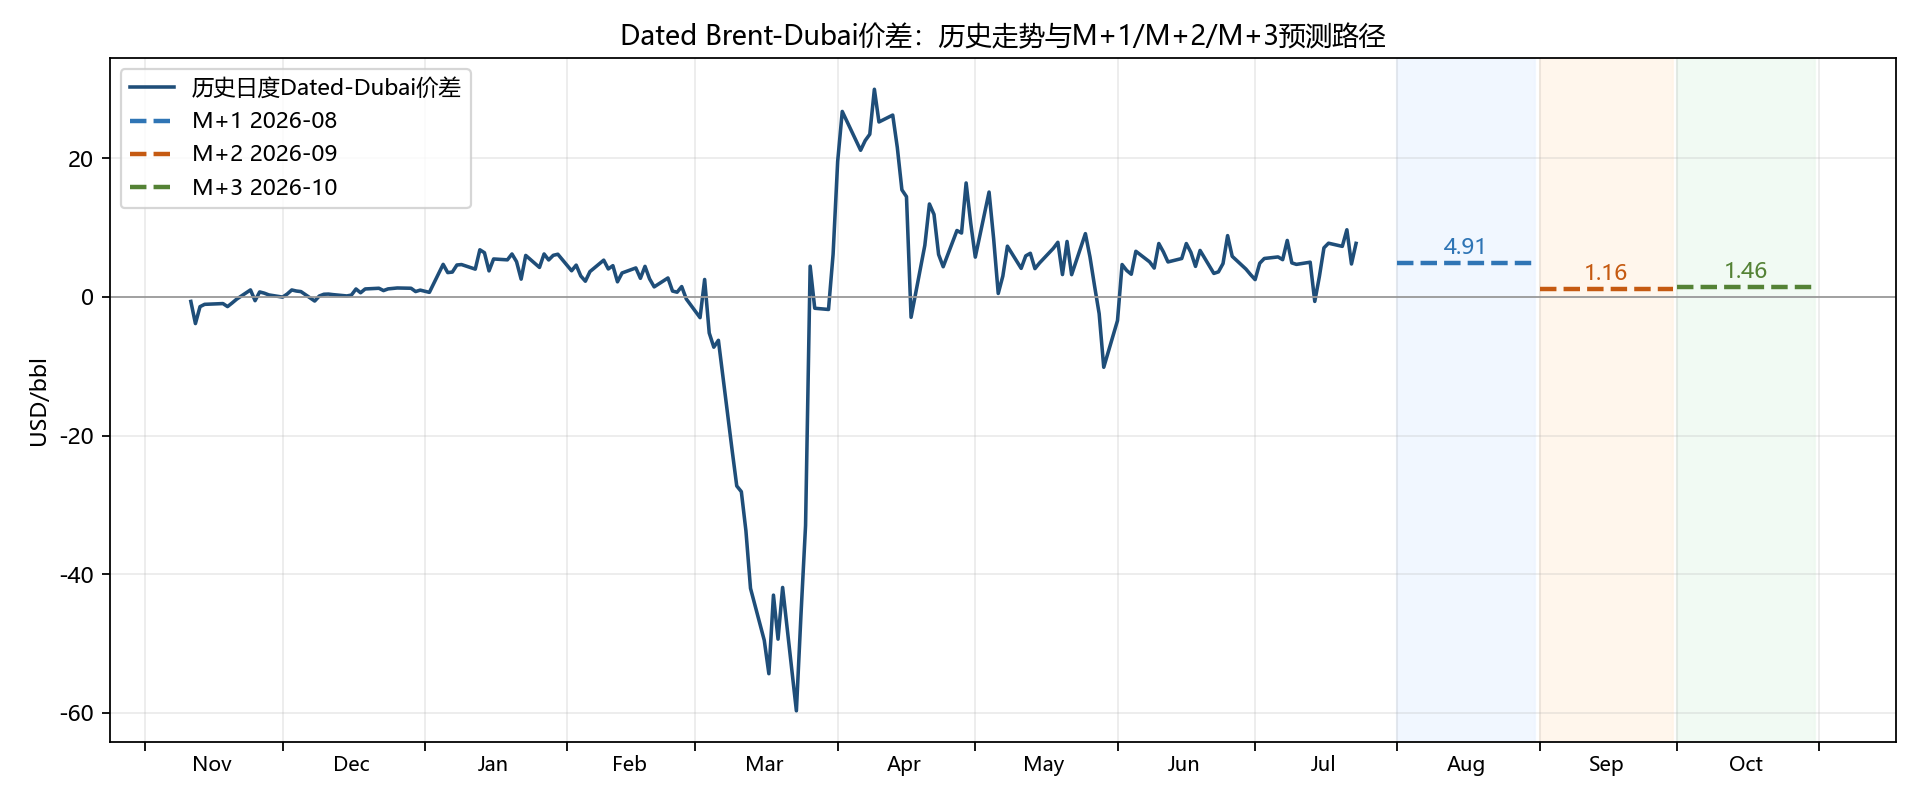
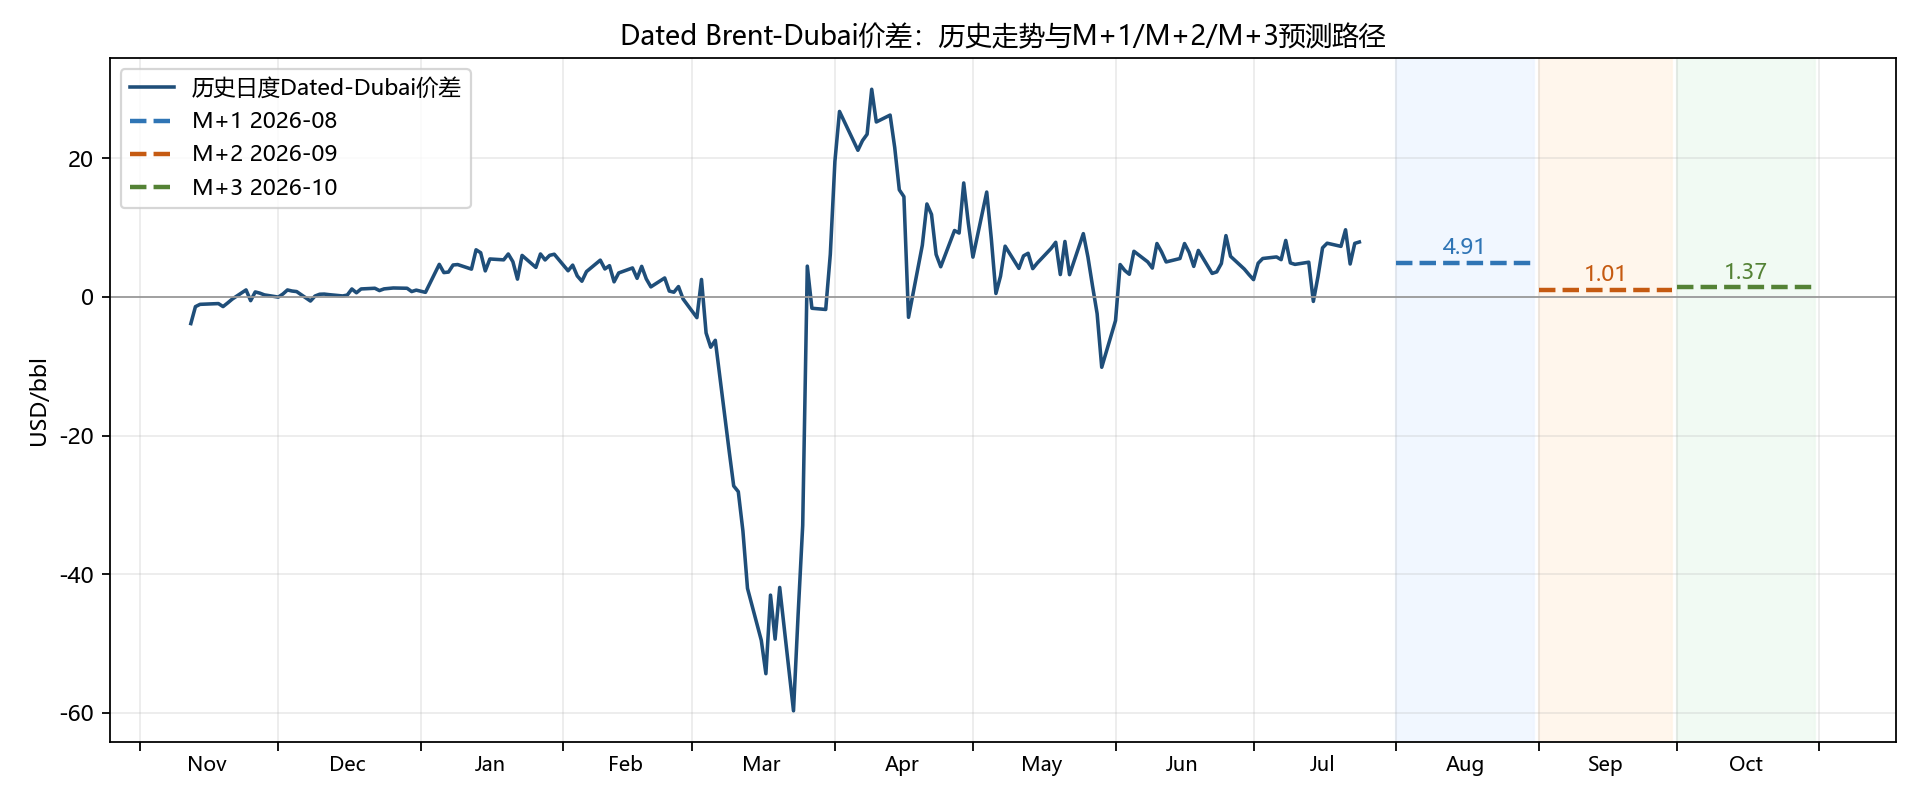
Update BD report 2026-07-27 09:41

diff --git a/index.html b/index.html
@@ -20,7 +20,7 @@ img{max-width:100%;border:1px solid #ddd}.note{color:#555}
 </head><body>
 <h1>Dated-Dubai价差中期预测模型报告</h1>
 <h2>1. 核心结论</h2>
-<div class='grid'><div class='kpi'>数据日期<b>2026-07-23</b></div><div class='kpi'>Dated Brent<b>104.920</b></div><div class='kpi'>Dubai<b>97.190</b></div><div class='kpi'>Dated-Dubai价差<b>7.730</b></div></div>
+<div class='grid'><div class='kpi'>数据日期<b>2026-07-24</b></div><div class='kpi'>Dated Brent<b>98.330</b></div><div class='kpi'>Dubai<b>90.400</b></div><div class='kpi'>Dated-Dubai价差<b>7.930</b></div></div>
 <table class="dataframe data-table">
   <thead>
     <tr style="text-align: right;">
@@ -40,7 +40,7 @@ img{max-width:100%;border:1px solid #ddd}.note{color:#555}
       <td>2026-08</td>
       <td>M+1</td>
       <td>4.9118</td>
-      <td>-2.8182</td>
+      <td>-3.0182</td>
       <td>下降</td>
       <td>ExtraTrees</td>
       <td>core</td>
@@ -50,8 +50,8 @@ img{max-width:100%;border:1px solid #ddd}.note{color:#555}
     <tr>
       <td>2026-09</td>
       <td>M+2</td>
-      <td>1.1553</td>
-      <td>-6.5747</td>
+      <td>1.0132</td>
+      <td>-6.9168</td>
       <td>下降</td>
       <td>ExtraTrees</td>
       <td>enhanced</td>
@@ -61,8 +61,8 @@ img{max-width:100%;border:1px solid #ddd}.note{color:#555}
     <tr>
       <td>2026-10</td>
       <td>M+3</td>
-      <td>1.4643</td>
-      <td>-6.2657</td>
+      <td>1.3708</td>
+      <td>-6.5592</td>
       <td>下降</td>
       <td>ExtraTrees</td>
       <td>enhanced</td>
@@ -72,10 +72,10 @@ img{max-width:100%;border:1px solid #ddd}.note{color:#555}
   </tbody>
 </table>
 <p>方向准确率为历史滚动回测结果。</p>
-<p>最新Dated-Dubai价差为 7.730 USD/bbl；未来预测方向为：M+1 2026-08 下降、M+2 2026-09 下降、M+3 2026-10 下降。</p>
+<p>最新Dated-Dubai价差为 7.930 USD/bbl；未来预测方向为：M+1 2026-08 下降、M+2 2026-09 下降、M+3 2026-10 下降。</p>
 <p>当前三个预测月份中，M+1 使用 ExtraTrees + core，M+2 使用 ExtraTrees + enhanced，M+3 使用 ExtraTrees + enhanced。</p>
 <h2>2. 价差走势与中期预测</h2>
-<img src='bd_m1_m3_monthly_forecast_chart.png?v=20260724103004' alt='M1-M3月均预测图'>
+<img src='bd_m1_m3_monthly_forecast_chart.png?v=20260727094128' alt='M1-M3月均预测图'>
 <p class='note'>实线为最近历史日度Dated-Dubai价差；水平虚线分别表示M+1/M+2/M+3完整自然月平均Dated-Dubai价差预测。价差上升表示Dated Brent相对Dubai走强；价差下降表示Dubai相对Dated Brent走强。</p>
 <h2>3. 回测表现摘要</h2>
 <table class="dataframe data-table">
@@ -299,7 +299,7 @@ img{max-width:100%;border:1px solid #ddd}.note{color:#555}
       <td>1</td>
       <td>核心海湾产量</td>
       <td>中东供应</td>
-      <td>0.098662</td>
+      <td>0.081218</td>
       <td>反映核心海湾原油产量变化</td>
     </tr>
     <tr>
@@ -307,7 +307,7 @@ img{max-width:100%;border:1px solid #ddd}.note{color:#555}
       <td>2</td>
       <td>俄罗斯替代油便宜度压力</td>
       <td>制裁替代油</td>
-      <td>0.064486</td>
+      <td>0.065788</td>
       <td>反映俄罗斯替代油对Dubai-linked油的便宜度压力</td>
     </tr>
     <tr>
@@ -315,7 +315,7 @@ img{max-width:100%;border:1px solid #ddd}.note{color:#555}
       <td>3</td>
       <td>OPEC剩余产能</td>
       <td>OPEC供应</td>
-      <td>0.062677</td>
+      <td>0.049244</td>
       <td>反映OPEC可释放供应弹性</td>
     </tr>
     <tr>
@@ -323,56 +323,56 @@ img{max-width:100%;border:1px solid #ddd}.note{color:#555}
       <td>4</td>
       <td>Dubai CTD篮子分化</td>
       <td>Dubai CTD</td>
-      <td>0.049047</td>
+      <td>0.047946</td>
       <td>反映Dubai交割篮子内部组分升贴水分化程度</td>
     </tr>
     <tr>
       <td>M+3 2026-10</td>
       <td>5</td>
-      <td>核心海湾出口量</td>
-      <td>中东供应</td>
-      <td>0.048182</td>
-      <td>反映核心海湾原油出口强弱</td>
-    </tr>
-    <tr>
-      <td>M+3 2026-10</td>
-      <td>6</td>
       <td>USGC汽油价格</td>
       <td>运费/产品</td>
-      <td>0.040921</td>
+      <td>0.040826</td>
       <td>反映USGC汽油市场强弱</td>
     </tr>
     <tr>
       <td>M+3 2026-10</td>
+      <td>6</td>
+      <td>核心海湾出口量</td>
+      <td>中东供应</td>
+      <td>0.037515</td>
+      <td>反映核心海湾原油出口强弱</td>
+    </tr>
+    <tr>
+      <td>M+3 2026-10</td>
       <td>7</td>
-      <td>制裁替代油便宜度压力</td>
-      <td>制裁替代油</td>
-      <td>0.033197</td>
-      <td>反映制裁替代油整体便宜度压力</td>
+      <td>USGC至亚洲VLCC运费</td>
+      <td>运费/产品</td>
+      <td>0.034203</td>
+      <td>反映USGC原油流向亚洲的VLCC运费压力</td>
     </tr>
     <tr>
       <td>M+3 2026-10</td>
       <td>8</td>
       <td>俄罗斯油相对Dubai便宜度</td>
       <td>制裁替代油</td>
-      <td>0.032612</td>
+      <td>0.033266</td>
       <td>俄罗斯油越便宜，对Dubai-linked油有替代压力</td>
     </tr>
     <tr>
       <td>M+3 2026-10</td>
       <td>9</td>
-      <td>Cold Lake相对优势信号</td>
-      <td>非制裁替代油</td>
-      <td>0.030970</td>
-      <td>反映Cold Lake替代油相对吸引力</td>
+      <td>中东至地中海VLCC运费</td>
+      <td>运费</td>
+      <td>0.032029</td>
+      <td>反映中东至地中海VLCC运费环境</td>
     </tr>
     <tr>
       <td>M+3 2026-10</td>
       <td>10</td>
-      <td>USGC至亚洲VLCC运费</td>
-      <td>运费/产品</td>
-      <td>0.029933</td>
-      <td>反映USGC原油流向亚洲的VLCC运费压力</td>
+      <td>沙特中质/轻质OSP价差</td>
+      <td>OSP结构</td>
+      <td>0.030916</td>
+      <td>反映沙特中质油和轻质油OSP相对强弱</td>
     </tr>
   </tbody>
 </table>

diff --git a/README_PUBLISH.md b/README_PUBLISH.md
@@ -1,5 +1,5 @@
 # BD GitHub Pages publish package
-Generated at: 2026-07-24 10:30:04
+Generated at: 2026-07-27 09:41:28
 
 Files:
 - index.html: formal report entry
